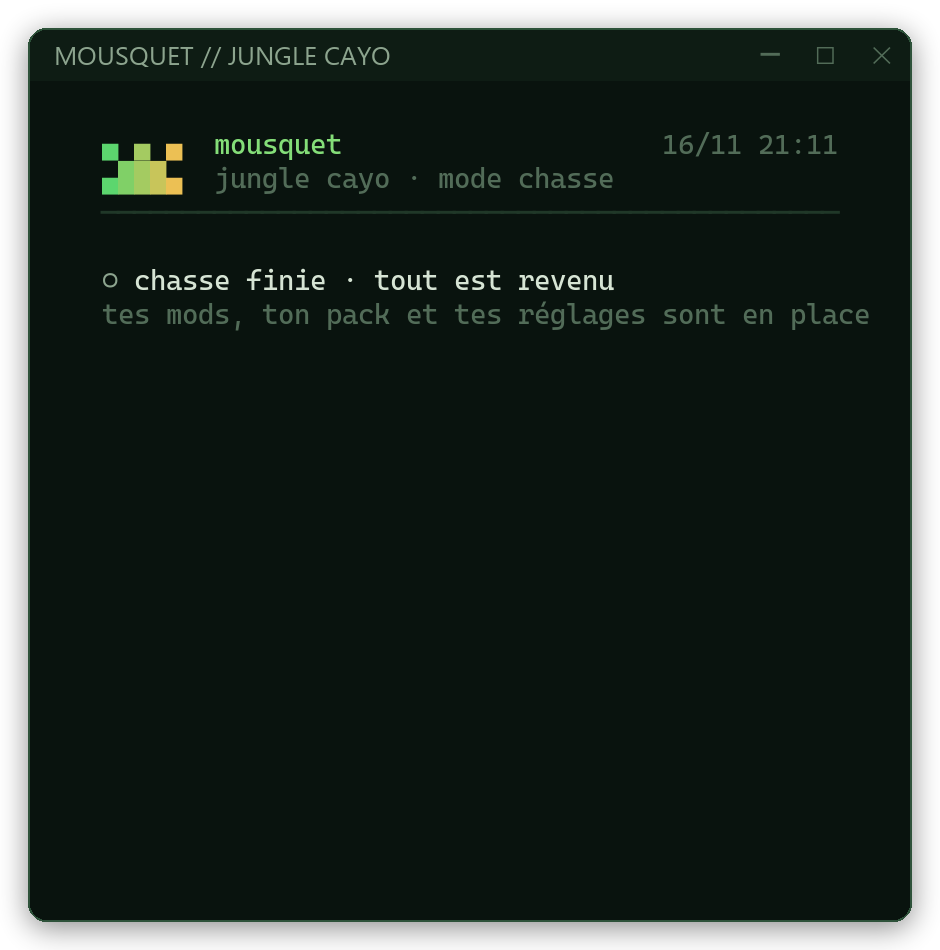
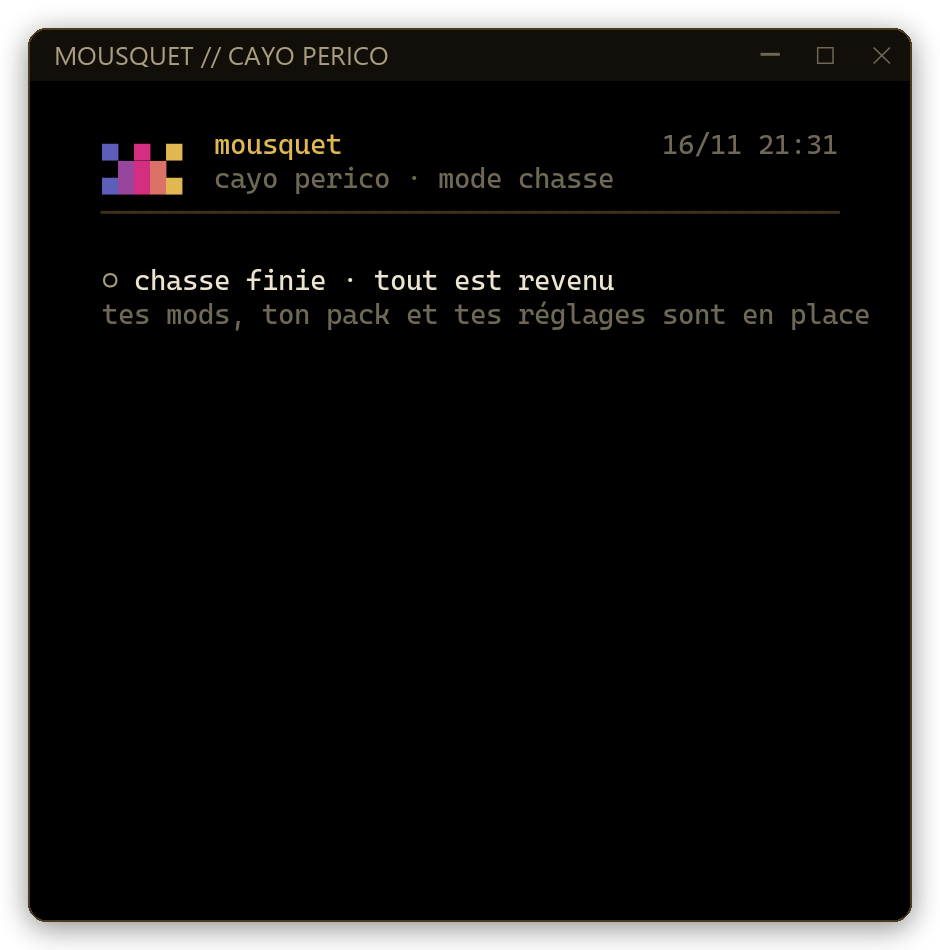
Thème Cayo Perico, aux couleurs de la bannière
Fond noir, or de la lune, violet de la panthère, rose de la fleur, vert
des feuilles et gris des rochers. Logo en dégradé violet, rose, or ;
questions en rose. Titre de la fenêtre : MOUSQUET // CAYO PERICO.
Captures du README refaites.

diff --git a/mousquet.py b/mousquet.py
@@ -337,20 +337,23 @@ def lancer_gardien():
                      creationflags=0x00000008 | 0x00000200 | 0x08000000)
 
 # ============================ STYLE ===============================
-# Thème « Jungle Cayo » : vert canopée sur fond sous-bois, or pour ce qui demande ton attention. Couleurs en R, G, B.
-FOND = (9, 19, 14)
-TEXTE = (214, 228, 212)
-TERNE = (82, 108, 88)
-MOYEN = (140, 164, 142)
-ACCENT = (132, 222, 120)
-OR = (236, 192, 84)
-BON = (127, 216, 140)
+# Thème « Cayo Perico », celui de la bannière : nuit noire, or de la lune, violet de la panthère, rose de la fleur,
+# vert des feuilles, gris des rochers. Couleurs en R, G, B.
+FOND = (0, 0, 0)
+TEXTE = (236, 228, 208)
+TERNE = (112, 104, 86)
+MOYEN = (170, 158, 128)
+ACCENT = (224, 183, 80)
+OR = (246, 214, 132)
+ROSE = (212, 46, 129)
+VIOLET = (92, 94, 186)
+BON = (60, 168, 96)
 REPARE = (242, 196, 109)
-MAUVAIS = (240, 112, 100)
-TRAIT = (32, 56, 40)
-POINTILLE = (40, 66, 48)
-PISTE = (42, 70, 50)
-LOGO_A, LOGO_B = (92, 214, 110), (236, 192, 84)
+MAUVAIS = (226, 64, 64)
+TRAIT = (62, 50, 22)
+POINTILLE = (56, 50, 38)
+PISTE = (48, 40, 22)
+LOGO = (VIOLET, ROSE, ACCENT)     # dégradé du logo : panthère, fleur, lune
 LARGEUR = 46
 COLONNES, RANGS = 52, 25
 ESC = "\x1b"
@@ -393,8 +396,13 @@ def melange(a, b, k):
     return tuple(a[i] + (b[i] - a[i]) * k for i in range(3))
 
 
-def grad(t, a, b):
-    return "".join(ink(ch, melange(a, b, i / max(1, len(t) - 1))) for i, ch in enumerate(t))
+def grad(t, teintes):
+    """Dégradé caractère par caractère à travers plusieurs teintes."""
+    def teinte(k):
+        k *= len(teintes) - 1
+        i = min(int(k), len(teintes) - 2)
+        return melange(teintes[i], teintes[i + 1], k - i)
+    return "".join(ink(ch, teinte(i / max(1, len(t) - 1))) for i, ch in enumerate(t))
 
 
 def label(t, droite=""):
@@ -424,16 +432,16 @@ class Ecran:
 
 def banniere(e, sous_titre):
     heure = datetime.now().strftime("%d/%m %H:%M")
-    e.ecrire(R_LOGO, "   " + grad("▄ ▄ ▄", LOGO_A, LOGO_B) + "  " + ink("mousquet", ACCENT)
+    e.ecrire(R_LOGO, "   " + grad("▄ ▄ ▄", LOGO) + "  " + ink("mousquet", ACCENT)
              + " " * (LARGEUR - 5 - 2 - 8 - len(heure)) + ink(heure, TERNE))
-    e.ecrire(R_LOGO + 1, "   " + grad("▄███▄", LOGO_A, LOGO_B) + "  " + ink(sous_titre, TERNE))
+    e.ecrire(R_LOGO + 1, "   " + grad("▄███▄", LOGO) + "  " + ink(sous_titre, TERNE))
     e.ecrire(R_TRAIT, "   " + ink("─" * LARGEUR, TRAIT))
 
 
 class Canopee:
-    """Quatre rangs de jungle qui bougent au vent, des lucioles."""
-    TONS = [((30, 92, 48), (112, 214, 112)), ((26, 84, 44), (98, 198, 100)),
-            ((44, 80, 52), (122, 176, 112)), ((58, 86, 44), (156, 172, 84))]
+    """Quatre rangs de jungle qui bougent au vent, des lucioles : feuilles vertes, fleurs roses, rochers gris."""
+    TONS = [((19, 90, 48), (56, 156, 86)), ((19, 80, 44), (50, 136, 78)),
+            ((120, 26, 76), (212, 46, 129)), ((86, 86, 92), (172, 172, 177))]
 
     def __init__(self):
         self.r = random.Random(11)
@@ -470,7 +478,7 @@ class Canopee:
 
 def ecran_fin(e, titre, detail):
     sys.stdout.write(f"{ESC}[2J{ESC}[?25l" if VT else "")
-    banniere(e, "jungle cayo · mode chasse")
+    banniere(e, "cayo perico · mode chasse")
     e.ecrire(R_LAB_CAN, "   " + ink("○", MOYEN) + " " + ink(titre, TEXTE))
     e.ecrire(R_LAB_CAN + 1, "   " + ink(detail, TERNE))
     e.envoyer()
@@ -522,7 +530,7 @@ def chasser(e, stop):
     sys.stdout.write(f"{ESC}[2J{ESC}[?25l" if VT else "")
     canopee = Canopee()
     t0 = time.monotonic()
-    banniere(e, "jungle cayo · mode chasse")
+    banniere(e, "cayo perico · mode chasse")
     e.ecrire(R_LAB_CAN, label("canopée"))
     e.ecrire(R_LAB_PREP, label("préparation"))
     e.envoyer()
@@ -557,7 +565,7 @@ def chasser(e, stop):
     def demander(rang, nom, question, delai, avertissement=()):
         """Question o/n sur la ligne de l'étape (avertissement en dessous) ; sans réponse à temps, c'est non."""
         e.ecrire(R_PREP + rang, "   " + ink(nom, TEXTE) + " " + ink("·" * max(1, 12 - len(nom)), POINTILLE) + " "
-                 + ink(question, OR))
+                 + ink(question, ROSE))
         for i, l in enumerate(avertissement):
             e.ecrire(R_ETAT + i, "   " + ink(l, MAUVAIS if i == 0 else TEXTE))
         e.envoyer()
